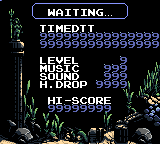
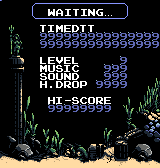
* Update settings screen to account for screen-squish by adding a bunch of sand to the button few rows. * Text at top of setting now reads "settings" for non-client players, and "Waiting..." for clients.

diff --git a/gb/src/StateFromBelow.c b/gb/src/StateFromBelow.c
@@ -149,7 +149,6 @@ MUST:
 * Add GB Credits (add make more visible)
 * [SGB] Title screen colors are all wrong now.
 * [SGB] Options screen colors are wrong now.
-* Update "waiting for host" for new options screen.
 * Test kill screen is working.
 
 SHOULD:
@@ -161,7 +160,6 @@ SHOULD:
 * Bottom of well looks weird going straight into water.
 * High contrast mode.
 * Add Thank You.
-* When transitioning to gameplay from menu, the squish effect kicks in before transition is done, because fade is done inside state change.
 
 PROBABLY CUT:
 
@@ -3640,6 +3638,12 @@ void go_to_state(unsigned char new_state)
 
 			INIT_FONT(font_options_bright, PRINT_BKG);
 
+			PRINT(5, 7,  "LEVEL");
+			PRINT(5, 8,  "MUSIC");
+			PRINT(5, 9,  "SOUNDS");
+			PRINT(5, 10, "H.DROP");
+			PRINT(6, 12, "HI-SCORE");			
+
 			sgb_init_settings();
 
 			// Clear out the temp tiles used to force tile index.
@@ -3678,7 +3682,11 @@ void go_to_state(unsigned char new_state)
 
 			if (!is_host)
 			{
-				PRINT(6, 1, "WAITING.");
+				PRINT(5, 1, "WAITING...");
+			}
+			else
+			{
+				PRINT(6, 1, "SETTINGS");
 			}
 #endif
 
